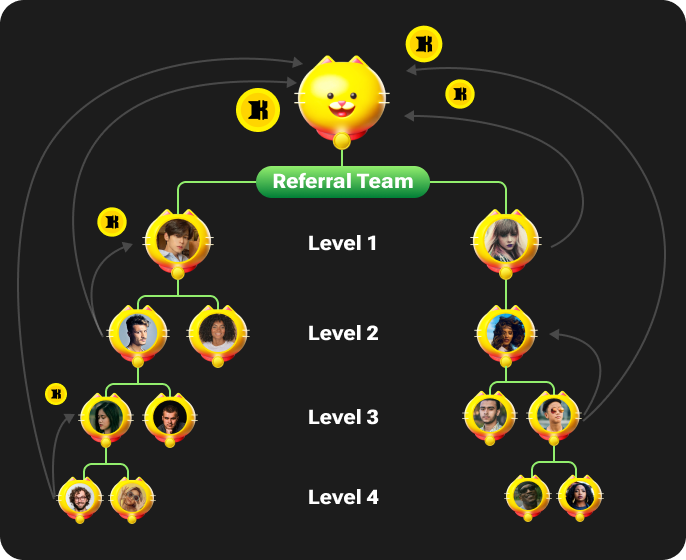
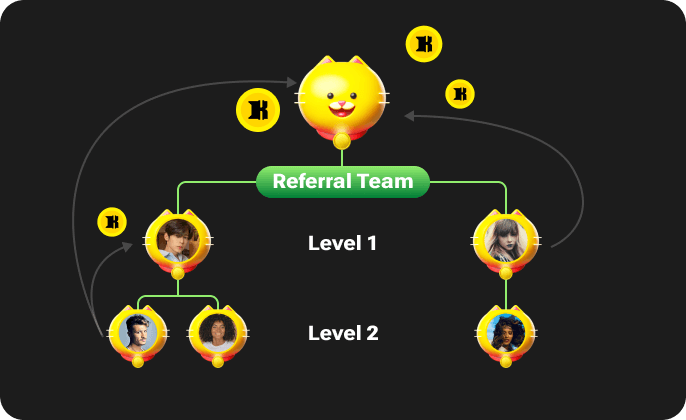
feat: [INT-593][前端] [KO][H5] 佣金层级调整为2级

diff --git a/app/routes/share-team.$tab/team-member.tsx b/app/routes/share-team.$tab/team-member.tsx
@@ -32,8 +32,6 @@ const levelOptions = [
   { value: '0', label: 'LV: all' },
   { value: '1', label: 'LV: 1' },
   { value: '2', label: 'LV: 2' },
-  { value: '3', label: 'LV: 3' },
-  { value: '4', label: 'LV: 4' },
 ]
 
 const sortOptions = [
@@ -351,7 +349,7 @@ const TeamMember: React.FC = () => {
             render={({ field }) => (
               <DropdownSheet
                 id="game-list-dropdown"
-                title="Game List"
+                title="Sort"
                 customTrigger={({ selectedLabel, placeholder }) => {
                   return (selectedLabel as React.ReactElement)?.props?.children === 'Default' ? (
                     <div className="mr-1 mt-2 flex cursor-pointer items-center justify-between rounded-full bg-[#FFFFFF33] p-[6px]">
@@ -393,7 +391,7 @@ const TeamMember: React.FC = () => {
             render={({ field }) => (
               <DropdownSheet
                 id="game-list-dropdown"
-                title="Game List"
+                title="LV"
                 customTrigger={({ selectedLabel, placeholder }) => (
                   <div className="mr-1 mt-2 flex min-w-[120px] flex-1 cursor-pointer items-center justify-between rounded-full bg-[#FFFFFF33] px-3 py-2 transition-all duration-1000 ease-in-out">
                     <div>{selectedLabel || placeholder}</div>

diff --git a/app/routes/share-invite/rule-sheet.tsx b/app/routes/share-invite/rule-sheet.tsx
@@ -189,7 +189,7 @@ const RuleSheet: React.FC<RuleSheetProps> = ({ teamSettingList }) => {
                 <span className="mt-1 text-xs text-white">Earn</span>
               </div>
             </div>
-            <div>Get commission on the bets from all your team member who are lv 1 to lv 4. </div>
+            <div>Get commission on the bets from all your team member who are lv 1 to lv 2. </div>
             <div>
               Bet amount are defined as valid bets in crypto games (Mines, Crash).Valid bets will
               only be calculated for bets that have been settled and produced a win or loss result.
@@ -202,7 +202,7 @@ const RuleSheet: React.FC<RuleSheetProps> = ({ teamSettingList }) => {
             <img src="/images/share/referralDiagram.png" alt="progress-1" className="w-full" />
             <div>
               Only when your friends registered and owned over 100 KOKON in their wallet are counted
-              valid member. Your team members can create a lv 1 to lv 4 Referral Team for you. The
+              valid member. Your team members can create a lv 1 to lv 2 Referral Team for you. The
               more members they bring in your team, the greater your income will be.
             </div>
           </div>

diff --git a/app/routes/share-team.$tab/commission.tsx b/app/routes/share-team.$tab/commission.tsx
@@ -36,8 +36,6 @@ const levelOptions = [
   { value: '0', label: 'LV: all' },
   { value: '1', label: 'LV: 1' },
   { value: '2', label: 'LV: 2' },
-  { value: '3', label: 'LV: 3' },
-  { value: '4', label: 'LV: 4' },
 ]
 
 // 定義 Zod schema
@@ -342,7 +340,7 @@ const Commission: React.FC = () => {
             render={({ field }) => (
               <DropdownSheet
                 id="game-list-dropdown"
-                title="Game List"
+                title="LV"
                 customTrigger={({ selectedLabel, placeholder }) => (
                   <div className="mr-1 mt-2 flex min-w-[120px] flex-1 cursor-pointer items-center justify-between rounded-full bg-[#FFFFFF33] px-3 py-2 transition-all duration-1000 ease-in-out">
                     <div>{selectedLabel || placeholder}</div>
